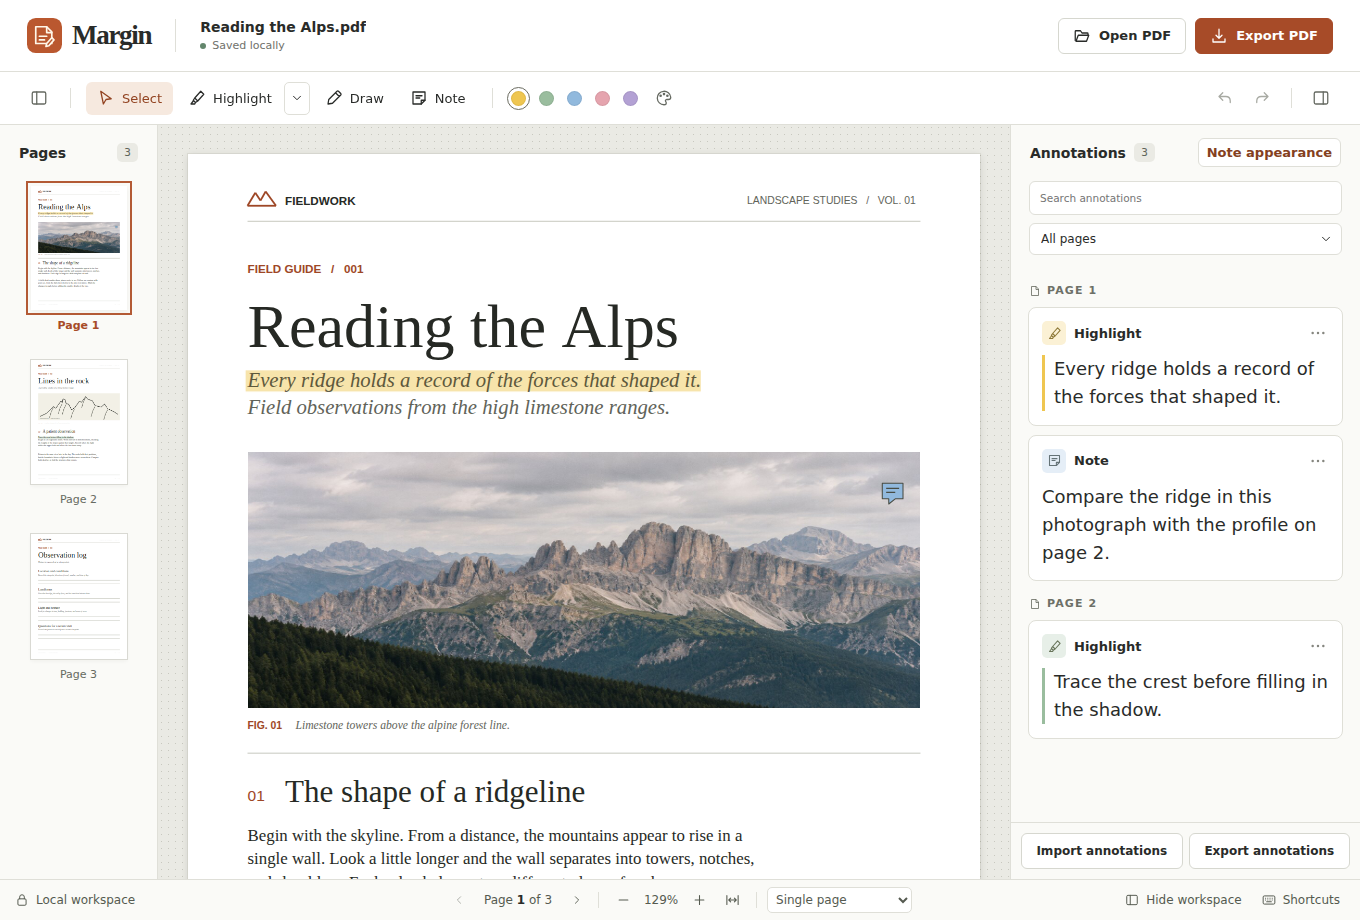
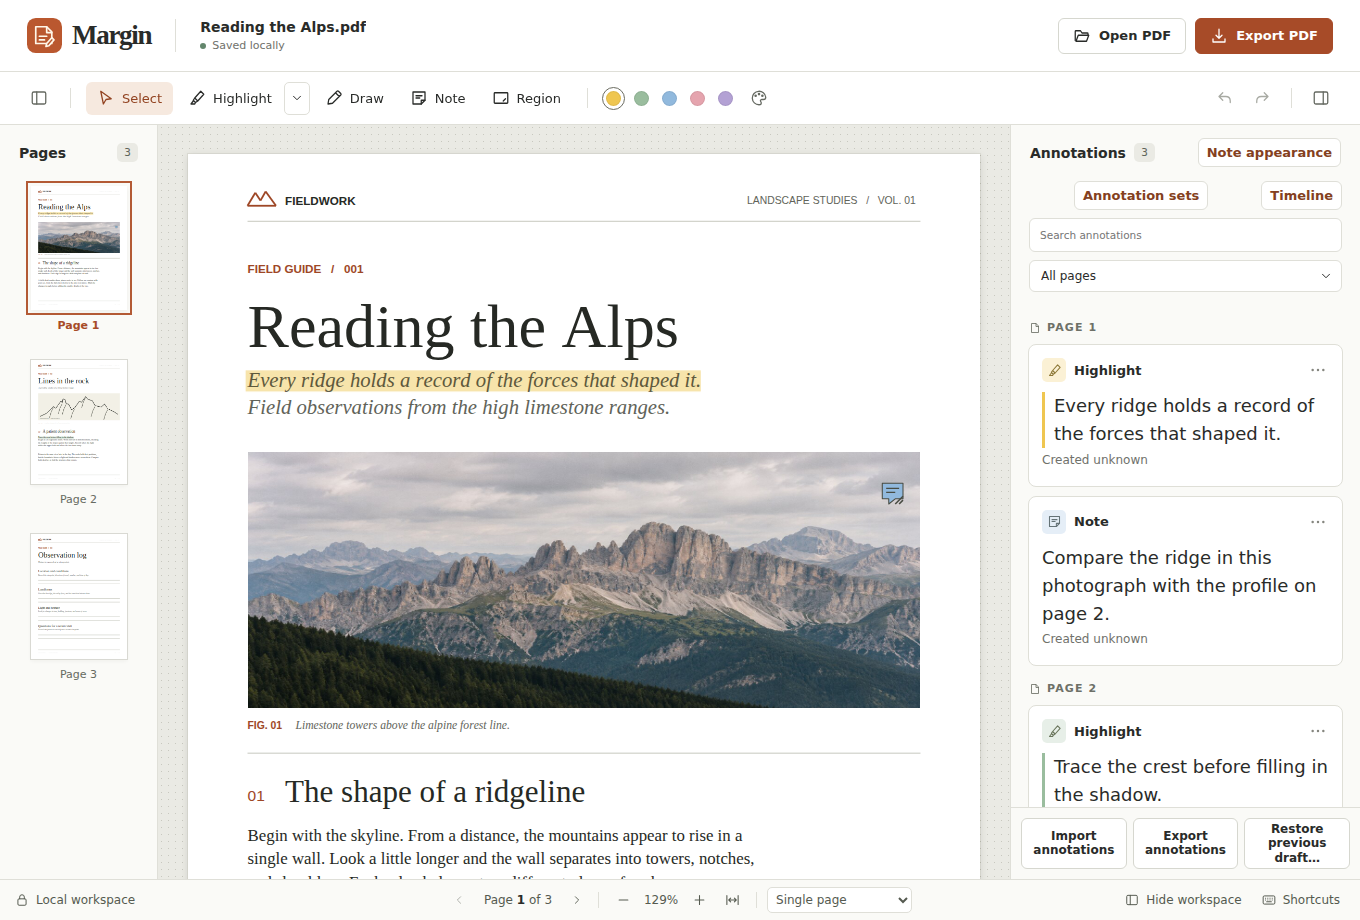
Release Margin 0.4.0

Changed region(s): [[0.7412, 0.1826, 0.9882, 0.9435], [0.3706, 0.0913, 0.5559, 0.1217]]

diff --git a/README.md b/README.md
@@ -4,14 +4,14 @@ Mark a passage, draw on a scan, or leave a note on a PDF. Margin works in **desk
 
 ## Install Margin
 
-1. **[Download Margin for Chrome and Chromium (.zip)](https://github.com/vollero/pdf-annotator/releases/latest/download/margin-pdf-annotator.zip).** This ZIP contains the ready-to-use extension.
+1. **[Download Margin for Chrome and Chromium (.zip)](https://github.com/vollero/pdf-annotator/releases/latest/download/margin-pdf-annotator.zip).** The stable ZIP contains the ready-to-use extension.
 2. **Extract the ZIP.** On Windows, right-click it and choose **Extract All**. On macOS, double-click it. On Linux, use your archive manager’s **Extract** command. Move the extracted **Margin** folder somewhere you’ll keep it, such as your Documents folder. Open it once to check that it contains `manifest.json`.
 3. **Load the extension.** Type `chrome://extensions` into the address bar and press Enter. Turn on **Developer mode** at the top right, click **Load unpacked**, and select the **Margin** folder that contains `manifest.json`. A **Margin – PDF Annotator** card should appear.
 4. **Launch Margin.** Open a new tab, click the **Extensions** puzzle-piece button next to the address bar, then click **Margin – PDF Annotator**. Use the pin beside its name if you’d like a toolbar shortcut.
 
 For pictures of the **Load unpacked** button and pin menu, see [Chrome’s illustrated instructions](https://developer.chrome.com/docs/extensions/get-started/tutorial/hello-world#load-unpacked)
 
-**Want annotation dates and time travel?** Download candidate **0.4.0-rc.8** and follow the same installation steps. If you already use Margin, follow **Update Margin** below to keep your local drafts. [Download the candidate ZIP](https://github.com/vollero/pdf-annotator/releases/download/v0.4.0-rc.8/margin-pdf-annotator.zip) · [Update Margin](#update-margin)
+Already using Margin? Keep the existing installation folder when you upgrade so Chromium can reopen your drafts. [Update Margin](#update-margin)
 
 ## Try it on the sample
 
@@ -21,7 +21,7 @@ On your first launch from a new tab, Margin opens *Reading the Alps*. It already
 2. Click **Note**, click a spot on the page, type a comment, and click **Save note**. To edit it later, click **Select**, then the note marker.
 3. Click **Export PDF**. Your browser downloads **Reading the Alps-annotated.pdf**. Open that file in your PDF reader to see the marks, or reopen it in Margin to keep editing.
 
-![Margin showing Reading the Alps, with Import annotations and Export annotations at the bottom of the right-hand Annotations panel.](docs/margin-editor.png)
+![Margin showing Reading the Alps with a highlighted passage, a note, and the Annotation sets and Timeline buttons above the annotation list.](docs/margin-editor.png)
 
 ## Open your own PDF
 
@@ -35,21 +35,21 @@ Click an entry in **Annotations** to jump to its mark. Open the entry’s **…*
 
 ## Organize annotations into sets
 
-Use sets to keep personal notes and review comments on the same PDF. This feature is available from **0.4.0-rc.3**. The standard download installs stable **0.3.0**. To try sets, use the candidate ZIP with the installation or update instructions in this README. [Download the candidate](https://github.com/vollero/pdf-annotator/releases/download/v0.4.0-rc.8/margin-pdf-annotator.zip)
+Use sets to keep personal notes and review comments on the same PDF. You can choose which sets to read and which set receives your next annotation.
 
 1. Open **Annotations → Annotation sets**. Existing marks start in **My notes**. Type a name such as **Review comments**, click **Create and use**, then **Done**. New highlights, drawings, notes and passage comments go into that set. Choose **Write new annotations in** to switch sets.
 2. To organize a mark you already made, open its **…** menu in the sidebar and choose **Move to set**. **Undo** reverses the move.
 3. Under **Visible sets**, uncheck a set to hide its marks on the page, in thumbnails, in the margins and in sidebar search. Check it again to bring them back. You can hide every set. Selecting a set for writing or adding a new mark to it makes it visible.
 
-In **0.4.0-rc.6**, the number beside each set name is its annotation total for the whole PDF. It includes highlights, drawings, notes and passage comments across all pages. A comment spanning two pages counts once. You can check a hidden or archived set’s total without opening it, even while a sidebar filter is active.
+The number beside each set name is its annotation total for the whole PDF. It includes highlights, drawings, notes and passage comments across all pages. A comment spanning two pages counts once. You can check a hidden or archived set’s total without opening it, even while a sidebar filter is active.
 
 **To send a review copy**, show **Review comments**, hide **My notes**, and click **Export PDF**. The downloaded PDF includes the visible Margin marks. Reopening it in Margin restores the set names attached to those marks. This controls Margin annotations only. Content, attachments and annotations supplied by the original PDF can still be present.
 
-**To continue on another computer**, use **Export annotations** and import the JSON onto the exact same PDF. Use **0.4.0-rc.5 or later** for archived sets, authors or tags. This carries hidden marks and empty sets as well. The writing set and visibility choices are saved per PDF in the current browser profile.
+**To continue on another computer**, use **Export annotations** and import the JSON onto the exact same PDF. This carries hidden marks and empty sets as well. The writing set and visibility choices are saved per PDF in the current browser profile.
 
 ### Rename an annotation set
 
-In **0.4.0-rc.4**, open **Annotations → Annotation sets**, find the set under **Visible sets**, and click **Rename** beside it. For example, change **Review comments** to **Decisions** and press **Enter** or click **Save name**. You can rename any set you created or imported, including a hidden or empty set. **My notes** is the built-in set.
+Open **Annotations → Annotation sets**, find the set under **Visible sets**, and click **Rename** beside it. For example, change **Review comments** to **Decisions** and press **Enter** or click **Save name**. You can rename any set you created or imported, including a hidden or empty set. **My notes** is the built-in set.
 
 The marks stay together. A hidden set stays hidden, and new marks continue going to the selected writing set. Close the dialog and click **Undo** to restore the previous name. Exported PDFs and annotation files use the name at the time of export. [How imports match set names](docs/annotation-migration.md#version-9-and-annotation-sets)
 
@@ -74,17 +74,15 @@ Choose **Export PDF** to share the visible review. Choose **Export annotations**
 
 3. Save the note. You can read the formatting in **Annotations**, a page margin, a pinned preview, or an expanded note box. Reopen the note to edit its Markdown source. Clear **Format as Markdown** to display the punctuation literally. Quoted PDF text always reads as it appears in the document.
 
-**Export PDF** gives other PDF readers readable comment text and draws styled text in expanded note boxes. Reopening the PDF in Margin restores the editable Markdown. **Export annotations** carries the source and formatting choice to another copy of the same PDF in Margin **0.3.0 or later**. HTML and image syntax display as text.
+**Export PDF** gives other PDF readers readable comment text and draws styled text in expanded note boxes. Reopening the PDF in Margin restores the editable Markdown. **Export annotations** carries the source and formatting choice to another copy of the same PDF in Margin. HTML and image syntax display as text.
 
 ### Open a web link from a note
-
-Clickable links are available from **0.4.0-rc.2**. Stable **0.3.0** displays link syntax as text. To try links, install or update using the candidate ZIP. [Download the candidate](https://github.com/vollero/pdf-annotator/releases/download/v0.4.0-rc.8/margin-pdf-annotator.zip)
 
 1. Open a note, select **Format as Markdown**, and type `Check the [units table](https://example.org/units).` To show the address itself, write `<https://example.org/units>`. Use a full address beginning with `https://` or `http://`.
 2. Open **Preview formatting** and click the underlined link, or focus it with **Tab** and press **Enter**. The website opens in a new tab. Your PDF and any unsaved note stay open in Margin.
 3. After saving, you can follow the link from **Annotations**, a margin note, or a note preview. In an expanded box on the PDF, use the **Select** tool. Click nearby note text to jump to the annotation or edit the note as usual.
 
-**Export PDF** includes the label and copyable address in the PDF comment and expanded note box. Reopen that PDF in the candidate to follow the link again. **Export annotations** preserves the original Markdown for migration. Plain-text notes, code samples, and quoted PDF passages keep their literal spelling.
+**Export PDF** includes the label and copyable address in the PDF comment and expanded note box. Reopen that PDF in Margin to follow the link again. **Export annotations** preserves the original Markdown for migration. Plain-text notes, code samples, and quoted PDF passages keep their literal spelling.
 
 ### Add a multi-line code sample
 
@@ -101,11 +99,9 @@ if unit == "mm":
 
 Open **Preview formatting** to see the indented sample in monospace. Spaces, tabs and blank lines are part of the sample. Long lines wrap to fit the note. You can use three tildes (`~~~`) for a sample that contains triple backticks. The language name after the opening fence is optional.
 
-**Export PDF** puts the code in the PDF comment and draws it in expanded note boxes. Reopening the PDF in Margin or importing the annotations restores the fences and language name for editing. Use **Margin 0.3.0 or later** to see formatted blocks.
+**Export PDF** puts the code in the PDF comment and draws it in expanded note boxes. Reopening the PDF in Margin or importing the annotations restores the fences and language name for editing.
 
 ### Write an equation in a note
-
-Equation rendering is available from **0.4.0-rc.1**. To try it, download the current candidate ZIP and follow the same installation or update steps. [Download the candidate](https://github.com/vollero/pdf-annotator/releases/download/v0.4.0-rc.8/margin-pdf-annotator.zip)
 
 1. Open a note and select **Format as Markdown**. Enclose an inline formula in single dollar signs, such as `$E=mc^2$`. For an equation on its own line, use a pair of dollar signs at each end.
 2. Paste the example below and open **Preview formatting**. The first formula appears in the sentence. The fraction appears on its own line.
@@ -120,7 +116,7 @@ Equation rendering is available from **0.4.0-rc.1**. To try it, download the cur
 
 3. Save the note to see the equation in the sidebar, the page margin, or a pinned preview. Reopen it to edit the LaTeX. An incomplete or unrecognized formula displays its source. Code spans and fenced code blocks keep dollar signs literal. Type `\$` for a literal dollar sign in prose.
 
-Equations render offline in Margin. **Export annotations** preserves the LaTeX in the existing Markdown format. **Export PDF** writes the LaTeX source in PDF comments and expanded boxes, so recipients can copy the formula. Opening that PDF in the equation candidate typesets it again.
+Equations render offline in Margin. **Export annotations** preserves the LaTeX in the existing Markdown format. **Export PDF** writes the LaTeX source in PDF comments and expanded boxes, so recipients can copy the formula. Opening that PDF in Margin typesets the equation again.
 
 ## Read notes in the page margin
 
@@ -128,7 +124,7 @@ Equations render offline in Margin. **Export annotations** preserves the LaTeX i
 2. Read the note beside its passage as you scroll. A comment that spans pages appears on each quoted page. Click a margin note to read its full text, edit it, or switch sides. Choose **No margin copy** to remove the margin copy. **Undo** reverses the change.
 3. Use **Hide workspace** for more reading room. In a narrow window or at high zoom, scroll horizontally to reach the other side. Crowded notes stack in passage order. If a stack is taller than its page, scroll inside that margin.
 
-**Export annotations** carries the chosen side to the same PDF in Margin 0.3.0 or later. **Export PDF** keeps the note anchored on the original page. Other PDF readers can show the annotation there, and reopening the export in Margin restores the margin layout.
+**Export annotations** carries the chosen side to the same PDF in Margin. **Export PDF** keeps the note anchored on the original page. Other PDF readers can show the annotation there, and reopening the export in Margin restores the margin layout.
 
 ## Pin a note preview
 
@@ -144,7 +140,7 @@ The pin lasts for the current PDF in this tab. Reloading, opening another PDF, o
 2. Write your note and choose **Save note**. Select **Track as action** if you want a checkbox for the task. The note appears under **Annotations** as a **Region note**.
 3. Switch to **Select**. Click the outline to edit the note, drag an edge to move it, or drag its lower-right grip to resize it. The middle stays clear for reading and selecting text. With the outline focused, **Shift + an arrow key** resizes it. **Esc** cancels a drag and **Undo** reverses a saved change.
 
-**Export PDF** includes the outline and its comment so someone can review them in a PDF reader. To send only the annotations, choose **Export annotations**. The recipient can import them with the same PDF in Margin **0.3.0 or later**.
+**Export PDF** includes the outline and its comment so someone can review them in a PDF reader. To send only the annotations, choose **Export annotations**. The recipient can import them with the same PDF in Margin.
 
 ## Convert a point note or region note
 
@@ -160,7 +156,7 @@ The note keeps its text, color, page and action status. **Export PDF** shows the
 2. Release when you can see the lines you need. The top-left corner stays in place. To make room near a page edge, drag the body of the note toward the middle first. Click the body to open the full text.
 3. To return to a compact marker, drag the corner up and left until both sides reach their smallest size. Press **Esc** during a drag to cancel, or choose **Undo** after releasing.
 
-With a keyboard, use **Tab** to focus a note and **Shift + an arrow key** to adjust its width or height. Zoom scales the box with its page. **Note appearance** controls its font and text size. **Export PDF** includes the visible box and its full note text. To move the editable box to another copy of the same PDF, use **Export annotations** and open the JSON with **Import annotations** in Margin 0.3.0 or later.
+With a keyboard, use **Tab** to focus a note and **Shift + an arrow key** to adjust its width or height. Zoom scales the box with its page. **Note appearance** controls its font and text size. **Export PDF** includes the visible box and its full note text. To move the editable box to another copy of the same PDF, use **Export annotations** and open the JSON with **Import annotations** in Margin.
 
 ## Move a note marker
 
@@ -209,7 +205,7 @@ Margin remembers your palette in this browser profile. Recipients see the colors
 
 ## Tag comments and add an author
 
-In **0.4.0-rc.5**, open a passage comment, point note, or region note. Enter a display name in **Author** and comma-separated labels in **Tags**, for example `Methods, Needs evidence`. Both fields are optional. Choose **Save comment** or **Save note**. The sidebar and pinned preview display the attribution and tags.
+Open a passage comment, point note, or region note. Enter a display name in **Author** and comma-separated labels in **Tags**, for example `Methods, Needs evidence`. Both fields are optional. Choose **Save comment** or **Save note**. The sidebar and pinned preview display the attribution and tags.
 
 Choose **Use this author for future comments** before saving to prefill new comments in this browser. To clear the default, save a blank author with the same box checked. In Incognito, the default lasts only for the current workspace tab. Existing comments keep the name entered on them. Anyone receiving the PDF or annotation file can read the author and tags on the included comments.
 
@@ -222,7 +218,7 @@ Open a point note, region note or passage comment and expand **Discussion and ve
 - **Keep versions.** Check **Keep a version history for this note** and save. On an existing note, Margin captures the text you started with. Each subsequent saved change to the text or its Markdown setting records the contributor, time and resulting text. Tags, action checkboxes and placement changes leave the version list alone.
 - **Read or reuse earlier wording.** Open **Saved versions**. **Use version** puts the earlier wording and formatting into the editor. Save to apply it or cancel to discard it. Clearing the tracking checkbox and saving pauses recording and keeps the versions already collected. Resuming captures the current wording if it changed during the pause.
 - **Reply.** Type in **Reply to the original comment** and save. To continue a branch, click the reply count on the annotation card, choose **Reply to #…** beneath the relevant message, type your response and save. You can reply to a reply at any depth within the limit of 200 replies per note. Each reply shows its author, time and parent. Search can find reply text and contributor names.
-- **Exchange reviews.** Send **Export annotations** and have the other reviewer import the JSON onto the exact same PDF using **0.4.0-rc.8 or later**. It includes the full discussion and retained versions, including earlier wording. When you import their JSON back, replies and versions from both copies are kept by ID. The imported note supplies the current wording. **Export PDF** shares the current note and a readable reply transcript. Reopening that PDF in Margin restores the reply tree. Previous versions stay in your draft and annotation JSON.
+- **Exchange reviews.** Send **Export annotations** and have the other reviewer import the JSON onto the exact same PDF using **Margin 0.4.0 or later**. It includes the full discussion and retained versions, including earlier wording. When you import their JSON back, replies and versions from both copies are kept by ID. The imported note supplies the current wording. **Export PDF** shares the current note and a readable reply transcript. Reopening that PDF in Margin restores the reply tree. Previous versions stay in your draft and annotation JSON.
 
 ## Travel through annotation dates
 
@@ -271,7 +267,7 @@ Margin starts with 18 px sans serif text and a Comfortable box. It remembers you
 ## Move annotations to another copy of the same PDF
 
 1. Open the PDF you annotated. In the **Annotations** panel, click **Export annotations**. Margin downloads a file such as `Field notes.margin-annotations.json` with your highlights, drawings, notes, and the PDF’s SHA-256 fingerprint. All pages are included, even when the list is filtered. If the panel is hidden, click **Show workspace** or **Toggle annotations** to bring it back.
-2. On the other computer, or in a later session, open the **exact same PDF**. Use **0.4.0-rc.8 or later** for dated annotations (format 12), **0.4.0-rc.7 or later** for undated threads or version history (format 11), **0.4.0-rc.5 or later** for authors, tags and archives (version 10), or **0.4.0-rc.3 or later** for named sets in version 9. Stable **0.3.0** imports versions 1–8. Send the original PDF separately if the recipient needs it. A renamed copy works. Re-saving the PDF or using **Export PDF** produces a different file when its bytes change.
+2. On the other computer, or in a later session, open the **exact same PDF**. Margin **0.4.0** reads annotation formats 1–12, including all files exported by **0.3.0**. For dated annotations, use **0.4.0 or later** on the receiving computer. Send the original PDF separately if the recipient needs it. A renamed copy works. Re-saving the PDF or using **Export PDF** produces a different file when its bytes change.
 3. Click **Import annotations** and select the JSON file. Margin checks the fingerprint before applying changes. It adds new marks, updates matching marks, and keeps other local annotations. Importing an identical file twice adds no duplicates. **Undo** reverses the import in one step.
 
 If Margin reports a fingerprint mismatch, locate the copy that was open when you exported the annotations. A matching filename or page count is insufficient. The JSON contains readable note text and selected highlight text. [Annotation file format and worked example](docs/annotation-migration.md)
@@ -294,11 +290,11 @@ Margin remembers your scrolling mode and workspace visibility the next time you 
 
 ## Update Margin
 
+1. Download the stable ZIP and extract it. If you want a backup, choose **Export annotations** for each open PDF and keep the JSON with the exact PDF you used. [Download Margin](https://github.com/vollero/pdf-annotator/releases/latest/download/margin-pdf-annotator.zip)
+2. Close the Margin tabs. Copy the extracted files into the **same Margin folder** you originally loaded, replacing the old files. Check that `manifest.json` is directly inside that folder.
+3. In the same browser profile, open `chrome://extensions`, click **Reload** on the existing Margin card, and reopen Margin. The card should show **0.4.0**. Reopen the original PDF to continue your draft.
+
 If you removed or replaced a note in a PDF exported with an earlier version, open that file in the updated extension and export a fresh copy before sharing it. [Security review](docs/security-review.md)
-
-Export any work you want to back up, close Margin, and extract the new ZIP. Replace the contents of the **same Margin folder** you loaded originally. At `chrome://extensions`, click the circular **Reload** arrow on the Margin card, then reopen the editor.
-
-The install button above downloads the latest stable version. To try a candidate, choose a version marked **Pre-release** and download **margin-pdf-annotator.zip** under **Assets**. [Browse releases](https://github.com/vollero/pdf-annotator/releases)
 
 ## Troubleshooting
 

diff --git a/docs/annotation-migration.md b/docs/annotation-migration.md
@@ -2,7 +2,7 @@
 
 Choose **Export annotations** in the **Annotations** panel to download a `.margin-annotations.json` file. Open the same PDF and choose **Import annotations**. The import reports how many marks it added and updated. You can reverse the entire import with **Undo**. In Incognito, export any annotations you want to keep before closing or reloading the tab.
 
-Margin 0.4.0-rc.8 reads versions 1–12. Stable 0.3.0 reads versions 1–8. The table lists the earliest release, including candidates, that can import each format.
+Margin **0.4.0** reads formats 1–12, including every annotation file exported by **0.3.0**. When you share a dated annotation, the recipient needs a reader for format 12. If you use an older installation, the table lists the first compatible release for each format, including candidates.
 
 | Feature in the export | JSON version | Earliest compatible Margin release |
 | --- | --- | --- |
